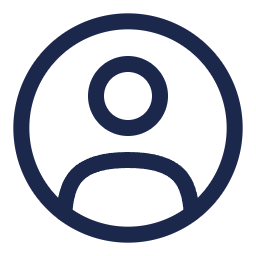
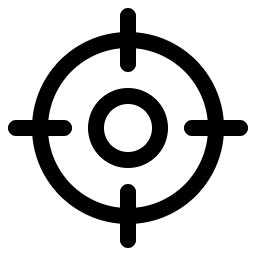
various

diff --git a/src/pages/authenticated/contacts/ContactsList.vue b/src/pages/authenticated/contacts/ContactsList.vue
@@ -1,5 +1,5 @@
 <template>
-    <div class="h-[100dvh] overflow-hidden flex flex-col">
+    <div class="h-dvh overflow-hidden flex flex-col relative">
         <div class="flex flex-col border-b border-b-gray-200 shadow h-18">
             <div class="px-5 pt-5 flex items-center gap-5 relative" @click="stepBack">
                 <div class="bg-gray-50 h-8 w-8 rounded-full flex items-center justify-center">
@@ -70,7 +70,13 @@
                                             <div>
                                                 {{ tg.territoryName || 'No Territory Assignment' }}
                                             </div>
-                                            <div>{{ tg.contacts.length }}</div>
+                                            <div class="flex items-center gap-5">
+                                                <div class="p-1 bg-gray-50 shadow-sm rounded-sm"
+                                                    @click="setTerritoryGroupMapViewer(tg)">
+                                                    <MapIcon class="h-5" />
+                                                </div>
+                                                <div>{{ tg.contacts.length }}</div>
+                                            </div>
                                         </div>
 
                                         <template v-for="contact in tg.contacts" :key="contact[0]">
@@ -83,8 +89,9 @@
                     </template>
                 </div>
             </Transition>
+            <TerritoryGroupMap :grouped-territory="targetTerritoryGroupContacts" v-if="targetTerritoryGroupContacts && mapViewer" @close-viewer="mapViewer = false"/>
         </div>
-        <BottomNav @step-back-contacts="stepBack"/>
+        <BottomNav @step-back-contacts="stepBack" />
     </div>
 </template>
 
@@ -94,14 +101,15 @@
     import ContactGroupedByStatus from '@/components/contacts/ContactGroupedByStatus.vue';
     import ContactGroupedByTown from '@/components/contacts/ContactGroupedByTown.vue';
     import ContactListItem from '@/components/contacts/ContactListItem.vue';
+    import MapIcon from '@/icon/MapIcon.vue';
     import PeopleIcon from '@/icon/PeopleIcon.vue';
     import SearchGlass from '@/icon/SearchGlass.vue';
-    import type { ContactRow } from '@/types/data';
+    import TerritoryGroupMap from '@/components/territory/TerritoryGroupMap.vue';
+    import type { ContactRow, GroupedContactsByTerritory } from '@/types/data';
     import { computed, ref, useTemplateRef, watch } from 'vue';
+    import { onClickOutside } from '@vueuse/core';
     import { useContactStore } from '@/stores/contacts';
     import { useTerritoryStore } from '@/stores/territories';
-    import { onClickOutside } from '@vueuse/core';
-
     type PageSections = 'status' | 'towns' | 'contacts'
     const contacts = useContactStore()
     const terr = useTerritoryStore()
@@ -110,6 +118,8 @@
     const status = ref('')
     const town = ref('')
     const showSearchInput = ref(false)
+    const mapViewer = ref(false)
+    const targetTerritoryGroupContacts = ref<GroupedContactsByTerritory | undefined>()
 
     const searchBox = useTemplateRef('searchBox')
 
@@ -163,7 +173,7 @@
         return targetTownContacts.sort((a, b) => a[1].localeCompare(b[1]))
     })
 
-    const territoryGrouped = computed(() => {
+    const territoryGrouped = computed<GroupedContactsByTerritory[]>(() => {
         const territoryGroups = new Map<string, ContactRow[]>();
 
         for (const row of townContacts.value) {
@@ -213,6 +223,11 @@
         ]
         return 'Contacts'
     })
+
+    const setTerritoryGroupMapViewer = (targetTerritoryGroup: GroupedContactsByTerritory) => {
+        targetTerritoryGroupContacts.value = targetTerritoryGroup
+        mapViewer.value = true
+    }
 
     watch(
         () => section,

diff --git a/src/stores/profileImages.ts b/src/stores/profileImages.ts
@@ -48,8 +48,20 @@ export const useProfileImageStore = defineStore('profileImages', () => {
         // 4. Fallback: Request from Apps Script
         loadingFiles.value[file] = true
         try {
-            const url = `https://script.google.com/macros/s/AKfycbyZReqXsUttX2Gp4ujW7DKCIt-HZD0IZYkEALekOzEurZamWAQepA3UE684AO-GOkh-/exec?token=${authToken}&action=get-img&file=${file}`
-            const resp = await fetch(url)
+            const url = 'https://script.google.com/macros/s/AKfycbyZReqXsUttX2Gp4ujW7DKCIt-HZD0IZYkEALekOzEurZamWAQepA3UE684AO-GOkh-/exec'
+            const resp = await fetch(url, {
+                method: 'POST',
+                mode: 'cors',
+                headers: {
+                    'Content-Type': 'text/plain',
+                },
+                body: JSON.stringify({
+                    file,
+                    action: 'get-img',
+                    token: authToken,
+                })
+            })
+
             const result = await resp.json()
 
             if (result.status === 'success') {

diff --git a/src/components/contacts/ContactMap.vue b/src/components/contacts/ContactMap.vue
@@ -1,5 +1,6 @@
 <template>
-    <div id="contact-map" class="z-0" style="height: 300px;"></div>
+    <div v-if="primaryCoordinates" id="contact-map" class="z-0" style="height: 300px;"></div>
+   
 </template>
 
 <script setup lang="ts">
@@ -8,7 +9,7 @@
     import { computed, onMounted, watch } from "vue";
     import type { ContactLocationRow } from "@/types/data";
 
-    let map: L.Map
+    let map: L.Map | null = null
 
     const { locations, profileImage } = defineProps<{
         locations: ContactLocationRow[],
@@ -48,6 +49,12 @@
     const initMap = () => {
         if (primaryCoordinates.value) {
 
+            // Destroy previous map instance
+            if (map) {
+                map.remove()
+                map = null
+            }
+
             map = L.map('contact-map').setView(
                 primaryCoordinates.value,
                 16
@@ -61,7 +68,7 @@
 
             L.marker(primaryCoordinates.value, { icon: markerIcon.value })
                 .addTo(map)
-                // .bindPopup('Primary Location')
+            // .bindPopup('Primary Location')
         }
     }
 

diff --git a/src/pages/authenticated/contacts/ContactDetails.vue b/src/pages/authenticated/contacts/ContactDetails.vue
@@ -1,5 +1,5 @@
 <template>
-    <div class="h-[100dvh] overflow-hidden flex flex-col relative">
+    <div class="h-dvh overflow-hidden flex flex-col relative">
         <ImageViewer :src="targetImg" v-if="imgViewer" @close-viewer="closeViewer" />
         <div class="px-3 py-5 border-b border-b-gray-200">
             <div class="flex gap-2 items-center">
@@ -52,6 +52,10 @@
                     <ContactDetailField label="Landmark" :value="contacts.onDetail[12]" />
 
                     <ContactMap :locations="contactLocations" :profile-image="imgSrc" v-if="hasDeterminedLocations" />
+                    <div v-else class="text-sm bg-amber-500 text-white py-1 px-2">
+                        <div class="text-xs">NOTE:</div>
+                        <div> No GPS location added for this contact!</div>
+                    </div>
                 </div>
 
                 <ContactDetailSectionShutter @click="setSection('calls')" title="Visits"

diff --git a/src/types/data.ts b/src/types/data.ts
@@ -103,3 +103,9 @@ export type GroupedContactsByTown = {
   town: string;
   contacts: ContactRow[];
 };
+
+export type GroupedContactsByTerritory = {
+  territoryId: string;
+  territoryName: string;
+  contacts: ContactRow[];
+}

diff --git a/src/components/Sidebar.vue b/src/components/Sidebar.vue
@@ -1,6 +1,6 @@
 <template>
     <Transition name="overlay">
-        <div v-if="show" class="w-full h-[100dvh] absolute inset-0 bg-black/60 z-10" @click.self="emits('closeSideBar')">
+        <div v-if="show" class="w-full h-dvh absolute inset-0 bg-black/60 z-10" @click.self="emits('closeSideBar')">
             <Transition name="sidebar">
                 <div class="p-6 w-10/12 h-full bg-white shadow overflow-hidden flex flex-col">
                     <div>

diff --git a/src/pages/authenticated/Dashboard.vue b/src/pages/authenticated/Dashboard.vue
@@ -1,5 +1,5 @@
 <template>
-    <div class="h-[100dvh] overflow-hidden flex flex-col relative">
+    <div class="h-dvh overflow-hidden flex flex-col relative">
         <Sidebar :show="sideBar" @close-side-bar="sideBar = false" />
 
         <div class="p-5 shadow flex items-center gap-5">

diff --git a/src/pages/maps/ContactsMap.vue b/src/pages/maps/ContactsMap.vue
@@ -1,5 +1,5 @@
 <template>
-    <div class="h-[100dvh] overflow-hidden flex flex-col relative">
+    <div class="h-dvh overflow-hidden flex flex-col relative">
         <div class="p-5 shadow flex items-center gap-5">
             <div class="bg-gray-100 h-8 w-8 rounded-full"></div>
             <div class="text-lg font-bold">Locations</div>

diff --git a/src/pages/territory/UserPendingCoverageUpdates.vue b/src/pages/territory/UserPendingCoverageUpdates.vue
@@ -1,5 +1,5 @@
 <template>
-    <div class="h-[100dvh] overflow-hidden flex flex-col relative">
+    <div class="h-dvh overflow-hidden flex flex-col relative">
         <div class="p-5 shadow flex items-center gap-5">
             <div class="bg-gray-100 h-8 w-8 rounded-full"></div>
             <div class="text-lg font-bold">Pending Visits</div>

diff --git a/src/pages/user/AppLogin.vue b/src/pages/user/AppLogin.vue
@@ -1,5 +1,5 @@
 <template>
-    <div class="relative h-[100dvh] overflow-hidden flex flex-col items-center justify-center">
+    <div class="relative h-dvh overflow-hidden flex flex-col items-center justify-center">
         <BlobAmber />
         <div class="w-full px-10">
             <div class="font-extrabold text-xl w-full mb-8">SLC Tacloban City</div>

diff --git a/src/pages/user/AppRegister.vue b/src/pages/user/AppRegister.vue
@@ -1,5 +1,5 @@
 <template>
-    <div class="relative h-[100dvh] overflow-hidden flex flex-col items-center justify-center">
+    <div class="relative h-dvh overflow-hidden flex flex-col items-center justify-center">
         <BlobAmber />
         <div class="w-full px-10">
             <div class="font-extrabold text-xl w-full mb-8">SLC Tacloban City</div>

diff --git a/src/pages/user/PendingUser.vue b/src/pages/user/PendingUser.vue
@@ -1,5 +1,5 @@
 <template>
-    <div class="h-[100dvh] flex items-center justify-center bg-gray-50 px-4">
+    <div class="h-dvh flex items-center justify-center bg-gray-50 px-4">
         <div 
             class="max-w-md w-full text-center p-8 bg-white rounded-xl shadow-lg border border-gray-100 transition-transform duration-300"
             :class="{ 'shake-animation': showFeedback && !isApproved }"